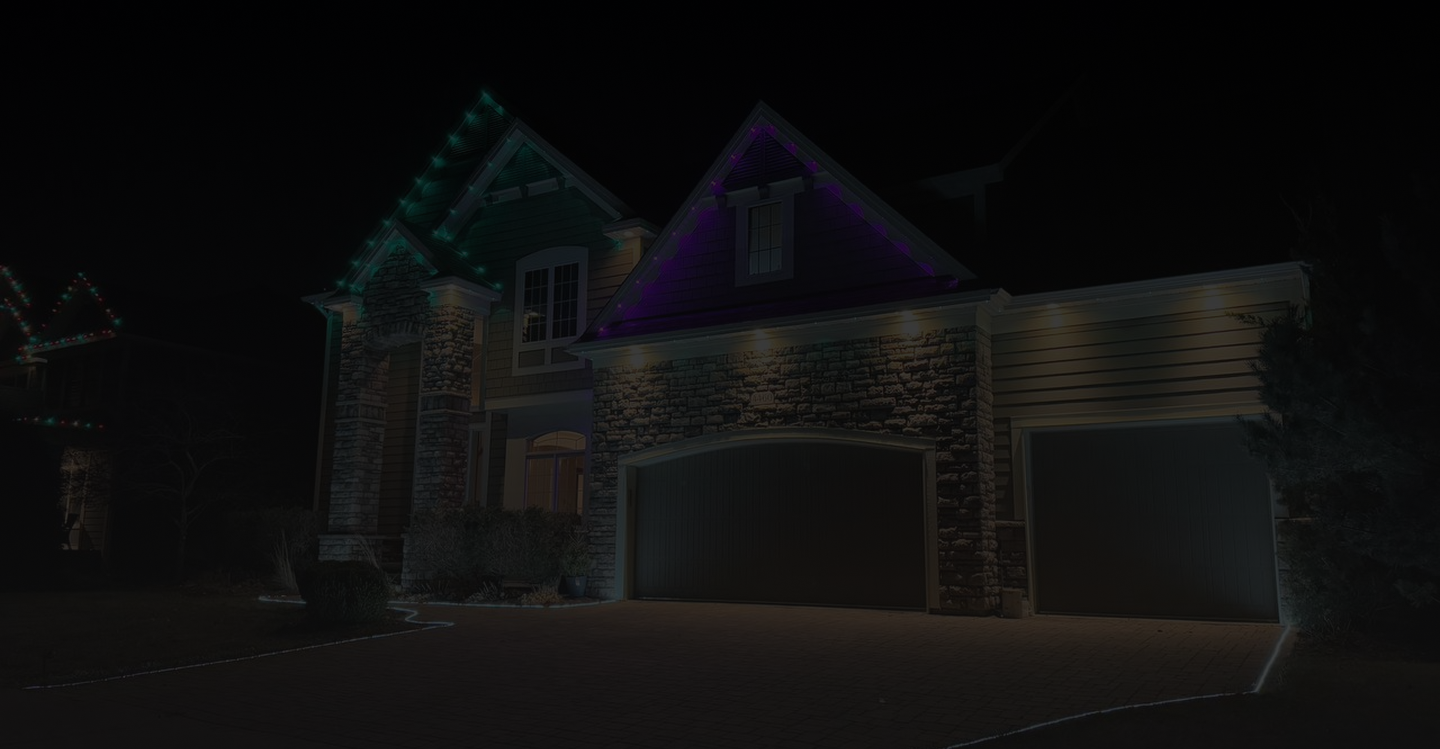
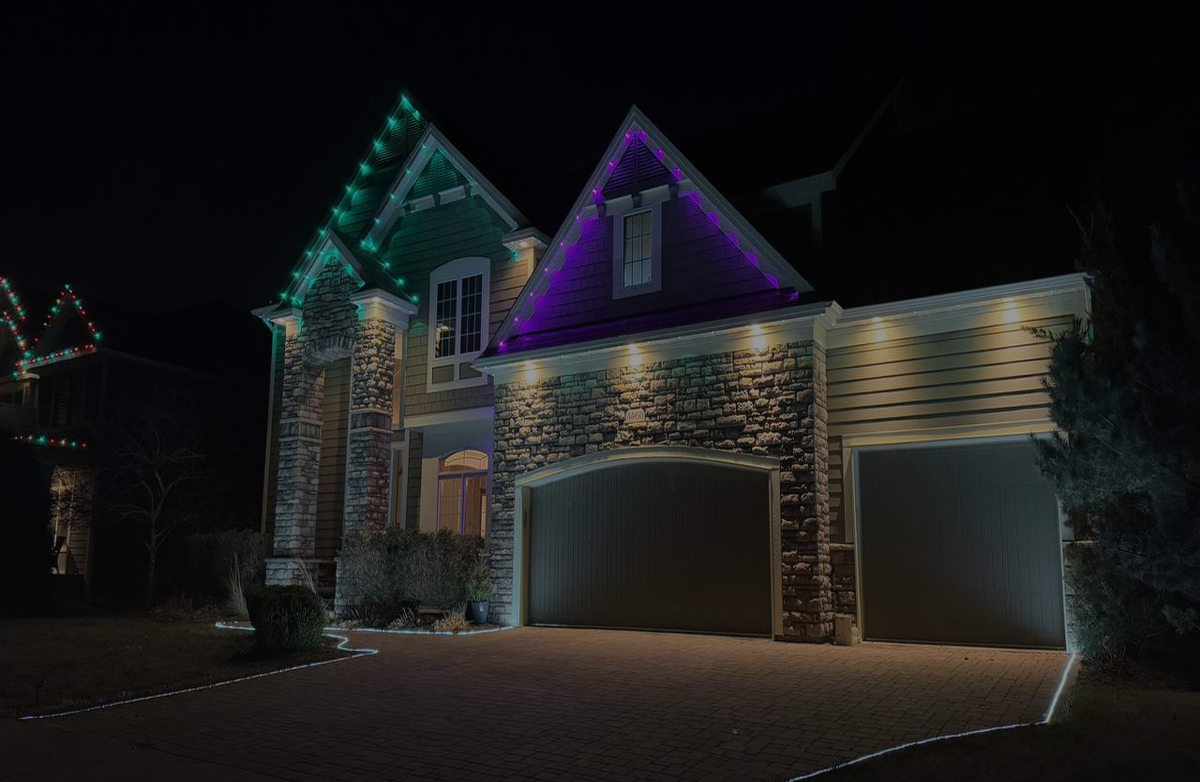
fix

diff --git a/src/components/sections/Gallery/Projects.tsx b/src/components/sections/Gallery/Projects.tsx
@@ -1,0 +1,86 @@
+import { FC, useEffect } from 'react'
+
+import ImageGallery from "react-image-gallery";
+import Link from 'next/link';
+import "react-image-gallery/styles/css/image-gallery.css";
+
+import styles from './Gallery.module.scss'
+
+const images = [
+    {
+        original: "/img/gallery/projects/1.jpg",
+        thumbnail: "/img/gallery/projects/1.jpg",
+    },
+    {
+        original: "/img/gallery/projects/2.jpg",
+        thumbnail: "/img/gallery/projects/2.jpg",
+    },
+    {
+        original: "/img/gallery/projects/3.jpg",
+        thumbnail: "/img/gallery/projects/3.jpg",
+    },
+    {
+        original: "/img/gallery/projects/4.jpg",
+        thumbnail: "/img/gallery/projects/4.jpg",
+    },
+    {
+        original: "/img/gallery/projects/5.jpg",
+        thumbnail: "/img/gallery/projects/5.jpg",
+    },
+    {
+        original: "/img/gallery/projects/6.jpg",
+        thumbnail: "/img/gallery/projects/6.jpg",
+    },
+    {
+        original: "/img/gallery/projects/7.jpg",
+        thumbnail: "/img/gallery/projects/7.jpg",
+    },
+    {
+        original: "/img/gallery/projects/8.jpg",
+        thumbnail: "/img/gallery/projects/8.jpg",
+    },
+    {
+        original: "/img/gallery/projects/9.jpg",
+        thumbnail: "/img/gallery/projects/9.jpg",
+    },
+    {
+        original: "/img/gallery/projects/10.jpg",
+        thumbnail: "/img/gallery/projects/10.jpg",
+    },
+    {
+        original: "/img/gallery/projects/11.jpg",
+        thumbnail: "/img/gallery/projects/11.jpg",
+    },
+    {
+        original: "/img/gallery/projects/12.jpg",
+        thumbnail: "/img/gallery/projects/12.jpg",
+    },
+    {
+        original: "/img/gallery/projects/13.jpg",
+        thumbnail: "/img/gallery/projects/13.jpg",
+    },
+    {
+        original: "/img/gallery/projects/14.jpg",
+        thumbnail: "/img/gallery/projects/14.jpg",
+    },
+];
+
+const ProjectsC: FC = () => {
+    useEffect(() => {
+        window.scrollTo(0, 0);
+    }, [])
+
+    return (
+        <section className={styles.wrapper} id="gallery">
+            <div className={styles.list}>
+                <div className={styles.row}>
+                    <h1 className={styles.title}>Projects</h1>
+                    <Link href="/" className={`${styles.button} themeButton`}>Back</Link>
+                </div>
+                <ImageGallery items={images} />
+            </div>
+        </section>
+    )
+}
+
+export default ProjectsC

diff --git a/src/components/sections/Gallery/Inspirations.tsx b/src/components/sections/Gallery/Inspirations.tsx
@@ -1,0 +1,62 @@
+import { FC, useEffect } from 'react'
+
+import ImageGallery from "react-image-gallery";
+import Link from 'next/link';
+import "react-image-gallery/styles/css/image-gallery.css";
+
+import styles from './Gallery.module.scss'
+
+const images = [
+    {
+        original: "/img/gallery/inspirations/1.jpg",
+        thumbnail: "/img/gallery/inspirations/1.jpg",
+    },
+    {
+        original: "/img/gallery/inspirations/2.jpg",
+        thumbnail: "/img/gallery/inspirations/2.jpg",
+    },
+    {
+        original: "/img/gallery/inspirations/3.jpg",
+        thumbnail: "/img/gallery/inspirations/3.jpg",
+    },
+    {
+        original: "/img/gallery/inspirations/4.jpg",
+        thumbnail: "/img/gallery/inspirations/4.jpg",
+    },
+    {
+        original: "/img/gallery/inspirations/5.jpg",
+        thumbnail: "/img/gallery/inspirations/5.jpg",
+    },
+    {
+        original: "/img/gallery/inspirations/6.jpg",
+        thumbnail: "/img/gallery/inspirations/6.jpg",
+    },
+    {
+        original: "/img/gallery/inspirations/7.jpg",
+        thumbnail: "/img/gallery/inspirations/7.jpg",
+    },
+    {
+        original: "/img/gallery/inspirations/8.jpg",
+        thumbnail: "/img/gallery/inspirations/8.jpg",
+    }
+];
+
+const InspirationsC: FC = () => {
+    useEffect(() => {
+        window.scrollTo(0, 0);
+    }, [])
+
+    return (
+        <section className={styles.wrapper} id="gallery">
+            <div className={styles.list}>
+                <div className={styles.row}>
+                    <h1 className={styles.title}>Inspirations</h1>
+                    <Link href="/" className={`${styles.button} themeButton`}>Back</Link>
+                </div>
+                <ImageGallery items={images} />
+            </div>
+        </section>
+    )
+}
+
+export default InspirationsC

diff --git a/src/components/sections/Home/Projects/Projects.tsx b/src/components/sections/Home/Projects/Projects.tsx
@@ -17,9 +17,9 @@ const Projects: FC = () => {
                     <div className={styles.left}>
                         <h3 className={styles.subtitle}>Projects</h3>
                         <div className={styles.rightImage}>
-                            <Image src="/img/projects/right.jpg" blurDataURL="/img/projects/right.jpg" alt="Projects" layout='fill' />
+                            <Image src="/img/projects/project.jpg" blurDataURL="/img/projects/project.jpg" alt="Projects" layout='fill' />
                         </div>
-                        <Link href="/gallery" className={styles.more}>See More</Link>
+                        <Link href="/projects" className={styles.more}>See More</Link>
                     </div>
                     <div className={styles.center}>
                         <h3 className={styles.subtitle}><span>Make your choice</span></h3>
@@ -28,9 +28,9 @@ const Projects: FC = () => {
                     <div className={styles.right}>
                         <h3 className={styles.subtitle}>Inspirations</h3>
                         <div className={styles.leftImage}>
-                            <Image src="/img/projects/left.jpg" blurDataURL="/img/projects/left.jpg" alt="Inspirations" layout='fill' />
+                            <Image src="/img/projects/inspiration.jpg" blurDataURL="/img/projects/inspiration.jpg" alt="Inspirations" layout='fill' />
                         </div>
-                        <Link href="/gallery" className={styles.more}>See More</Link>
+                        <Link href="/inspirations" className={styles.more}>See More</Link>
                     </div>
                 </div>
             </div>

diff --git a/next-seo.config.ts b/next-seo.config.ts
@@ -5,18 +5,18 @@ const getConfig = (): any => {
 
     return {
         title: {
-            default: "Home | EuroLume Pathways",
-            template: `%s | EuroLume Pathways`,
+            default: "Home | EuroLume",
+            template: `%s | EuroLume`,
         },
-        description: `EuroLume Pathways - landing page about company which provides led strips.`,
+        description: `EuroLume - landing page about company which provides led strips.`,
         openGraph: {
             type: "website",
             images: [{ url: preview.src, alt: "Preview Image" }],
-            title: `EuroLume Pathways`,
-            description: `EuroLume Pathways - landing page about company which provides led strips.`,
+            title: `EuroLume`,
+            description: `EuroLume - landing page about company which provides led strips.`,
             locale: "en",
             url: "localhost",
-            siteName: "EuroLume Pathways",
+            siteName: "EuroLume",
         },
         manifest: "/favicons/manifest.json",
         twitter: {

diff --git a/src/components/sections/Home/Projects/Projects.module.scss b/src/components/sections/Home/Projects/Projects.module.scss
@@ -40,12 +40,22 @@
 .rightImage {
     @include transition();
     position: relative;
-    width: 373px;
-    height: 386px;
+    width: 400px;
+    height: 305px;
+
+    @include mq($laptop) {
+        width: 240px;
+        height: 182px;
+    }
 
     @include mq($tablet) {
-        width: 200px;
-        height: 200px;
+        width: 400px;
+        height: 305px;
+    }
+
+    @include mq($phablet) {
+        width: 189px;
+        height: 145px;
     }
 
     &:hover {
@@ -55,29 +65,6 @@
     }
 }
 
-.leftImage {
-    margin-left: -100px;
-
-    @include mq($tablet-large) {
-        margin-left: -200px;
-    }
-
-    @include mq($tablet) {
-        margin-left: 0;
-    }
-}
-
-.rightImage {
-    margin-right: -100px;
-
-    @include mq($tablet-large) {
-        margin-right: -200px;
-    }
-
-    @include mq($tablet) {
-        margin-right: 0;
-    }
-}
 
 .more {
     @include font-size(20px);

diff --git a/src/app/inspirations/page.tsx b/src/app/inspirations/page.tsx
@@ -2,14 +2,15 @@
 
 import Metadata from "@components/layout/Metadata";
 import GalleryC from "@components/sections/Gallery/Gallery";
+import InspirationsC from "@components/sections/Gallery/Inspirations";
 import ProjectsC from "@components/sections/Gallery/Projects";
 import { FC } from "react";
 
 const GalleryPage: FC = () => {
     return (
         <>
-            <Metadata seoTitle="Gallery | EuroLume" seoDescription="Project Page" />
-            <div className="next-page"><GalleryC /></div>
+            <Metadata seoTitle="Inspirations | EuroLume" seoDescription="Inspirations Page" />
+            <div className="next-page"><InspirationsC /></div>
         </>
     );
 };

diff --git a/src/components/sections/Home/About/About.module.scss b/src/components/sections/Home/About/About.module.scss
@@ -1,12 +1,18 @@
 /* ---- About ---- */
 @import '@resources';
 
+.wrapper {
+    @include mq($tablet-large) {
+        background: url('/img/about.png') no-repeat center top / cover;
+    }
+}
+
 .row {
     @include flexible();
     justify-content: space-between;
 
     @include mq($tablet-large) {
-        flex-direction: column;
+        flex-direction: column-reverse;
     }
 }
 
@@ -37,6 +43,10 @@
     position: relative;
     width: 377px;
     height: 501px;
+
+    @include mq($tablet-large) {
+        display: none;
+    }
 
     @include mq($phablet) {
         width: 90%;

diff --git a/src/app/sitemap.ts b/src/app/sitemap.ts
@@ -14,6 +14,18 @@ export default function sitemap(): MetadataRoute.Sitemap {
             lastModified: new Date(),
             changeFrequency: 'yearly',
             priority: 0.9,
+        },
+        {
+            url: `${domain}/projects`,
+            lastModified: new Date(),
+            changeFrequency: 'yearly',
+            priority: 0.9,
+        },
+        {
+            url: `${domain}/inspirations`,
+            lastModified: new Date(),
+            changeFrequency: 'yearly',
+            priority: 0.9,
         }
     ]
 }

diff --git a/src/components/sections/Home/Offer/Offer.module.scss b/src/components/sections/Home/Offer/Offer.module.scss
@@ -62,14 +62,14 @@
     margin: 0 auto;
     padding: 100px 0;
     margin-bottom: 100px;
-    background: url('/img/header/background.png') no-repeat center top / cover;
+    background: url('/img/header/background.png') no-repeat left bottom / cover;
 
     @include mq($tablet-large) {
         padding: 50px 0;
     }
 
     @include mq($phone) {
-        padding: 25px 0;
+        padding: 100px 0;
     }
 
     @include mq($tablet-large) {

diff --git a/src/app/projects/page.tsx b/src/app/projects/page.tsx
@@ -8,8 +8,8 @@ import { FC } from "react";
 const GalleryPage: FC = () => {
     return (
         <>
-            <Metadata seoTitle="Gallery | EuroLume" seoDescription="Project Page" />
-            <div className="next-page"><GalleryC /></div>
+            <Metadata seoTitle="Projects | EuroLume" seoDescription="Project Page" />
+            <div className="next-page"><ProjectsC /></div>
         </>
     );
 };

diff --git a/src/components/ui/Logo/Logo.module.scss b/src/components/ui/Logo/Logo.module.scss
@@ -17,7 +17,6 @@
 .icon {
     display: block;
     width: 150px;
-    height: 70px;
     overflow: hidden;
 
     & svg {
